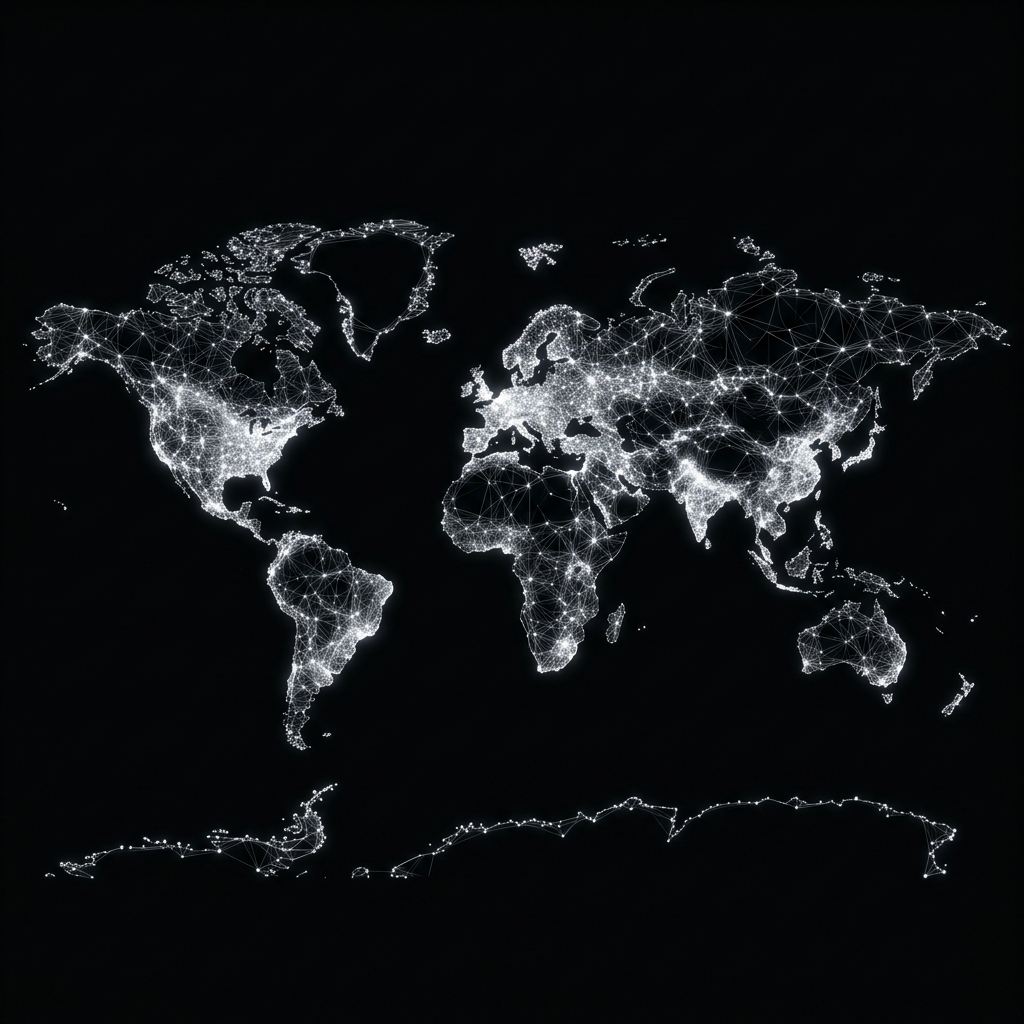
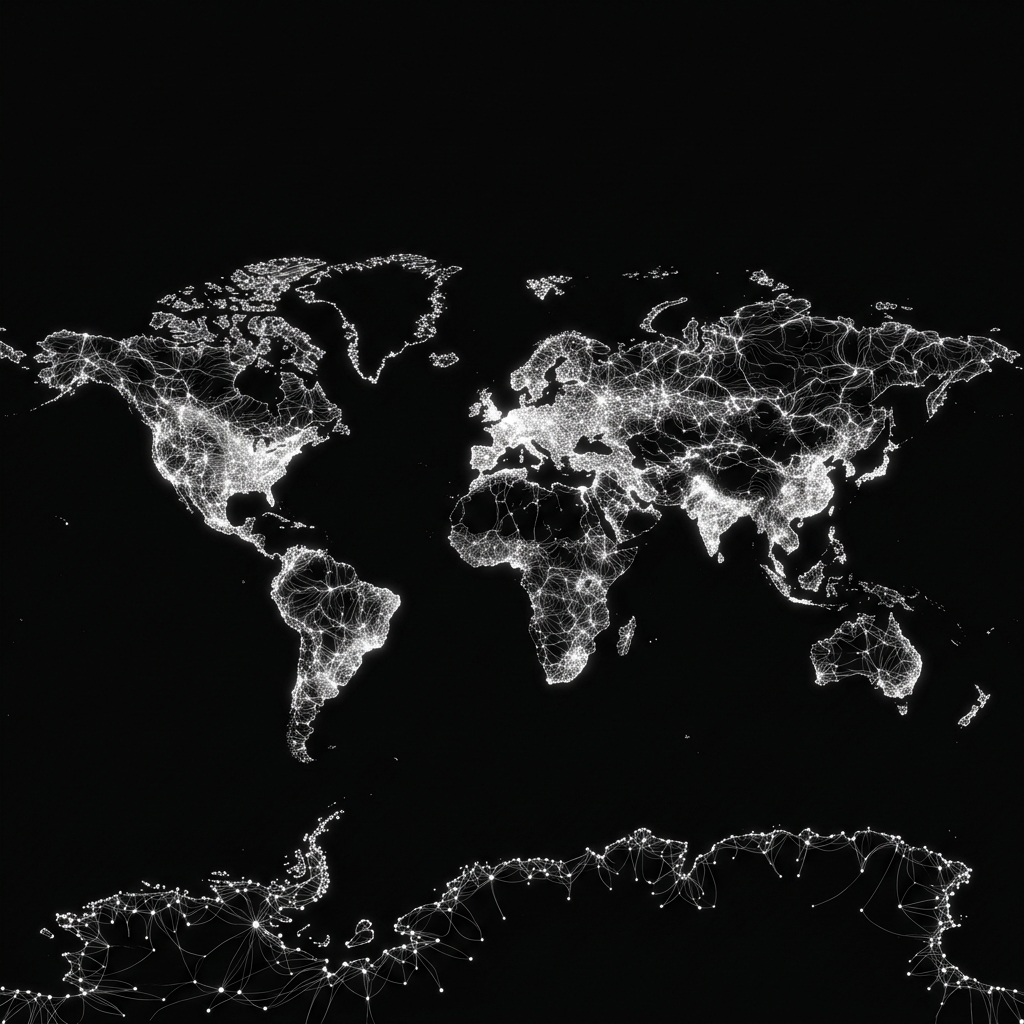
world map spans full screen width

Changed region(s): [[0.0, 0.1875, 1.0, 0.75], [0.0, 0.7812, 1.0, 1.0], [0.9062, 0.6562, 0.9688, 0.7188]]

diff --git a/index.html b/index.html
@@ -22,7 +22,7 @@
       width: 100vw;
       height: 100vh;
       background-image: url("assets/images/world-map-neurons.png");
-      background-size: contain;
+      background-size: cover;
       background-position: center;
       background-repeat: no-repeat;
       opacity: 0.15;